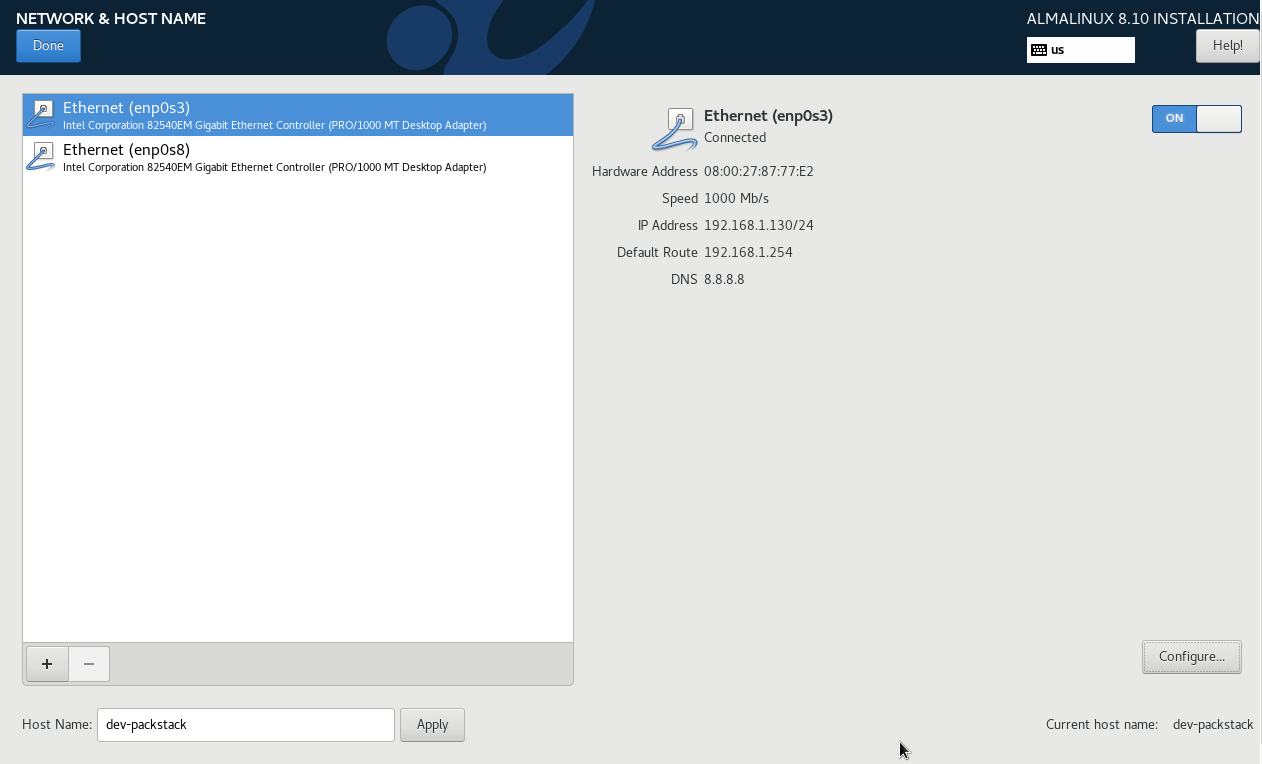
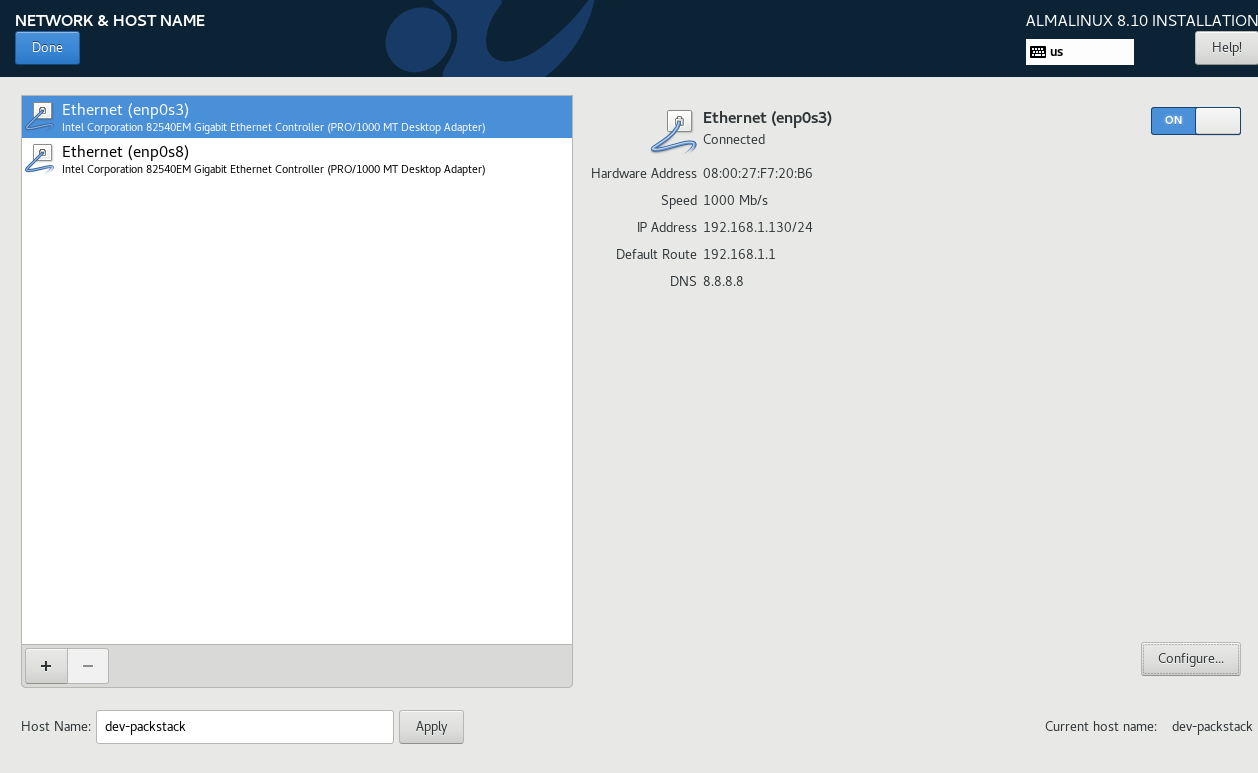
Migrate notes

diff --git a/docs/038-OpenStack/005-Installation/005-Setting-up-VirtualBox.md b/docs/038-OpenStack/005-Installation/005-Setting-up-VirtualBox.md
@@ -318,7 +318,7 @@ Start the machine and complete the installation using the GUI installer.
 
 7. Before proceeding to the next step, you need to get the IP of your host machine (not the VM).
 
-    Open command prompt and run the following:
+    Open command prompt and run:
 
     ```bash
     ipconfig 
@@ -327,13 +327,19 @@ Start the machine and complete the installation using the GUI installer.
     This returns you host network info. For example:
 
     ```bash
+    Ethernet adapter Ethernet:
+
+      Connection-specific DNS Suffix  . :
+      IPv4 Address. . . . . . . . . . . : 192.168.1.9
+      Subnet Mask . . . . . . . . . . . : 255.255.255.0
+      Default Gateway . . . . . . . . . : 192.168.1.1
+
     Wireless LAN adapter Wi-Fi:
 
       Connection-specific DNS Suffix  . :
-      Link-local IPv6 Address . . . . . : fe80::1995:67ee:8433:7919%13
-      IPv4 Address. . . . . . . . . . . : 192.168.1.24
+      IPv4 Address. . . . . . . . . . . : 192.168.1.8
       Subnet Mask . . . . . . . . . . . : 255.255.255.0
-      Default Gateway . . . . . . . . . : 192.168.1.254
+      Default Gateway . . . . . . . . . : 192.168.1.1
     ```
 
     Since we are using a host-only adapter mode, the VM will need to be assigned a static IP that is in the same range as your host machine.  
@@ -343,7 +349,7 @@ Start the machine and complete the installation using the GUI installer.
     ```bash
     IP Address: 192.168.1.130   (must be unused)
     Subnet:     255.255.255.0
-    Gateway:    192.168.1.254
+    Gateway:    192.168.1.1
     DNS:         8.8.8.8
     ```
 
@@ -385,7 +391,7 @@ Start the machine and complete the installation using the GUI installer.
     ```bash
     IP Address: 192.168.1.130   (must be unused)
     Subnet:     255.255.255.0
-    Gateway:    192.168.1.254
+    Gateway:    192.168.1.1
     DNS:         8.8.8.8
     ```
 
@@ -463,8 +469,6 @@ Check interface status using the interface name `enp0s3`.
 ip a show enp0s3
 ```
 
-Output:
-
 <div class='img-center'>
 
 ![](/img/docs/Screenshot-2026-02-08-202636.png)
@@ -475,14 +479,14 @@ Output:
 Test connectivity to the configured gateway: 
 
 ```bash
-ping -c 3 192.168.1.254
+ping -c 3 192.168.1.1
 ```
 
-Output:
+<div class='img-center'>
 
-```bash
-  
-```
+![](/img/docs/Screenshot-2026-02-09-002443.png)
+
+</div>
 
 
 Test DNS and internet access using `google.com`.
@@ -491,11 +495,12 @@ Test DNS and internet access using `google.com`.
 ping -c 3 google.com
 ```
 
-Output:
+<div class='img-center'>
 
-```bash
-  
-```
+![](/img/docs/Screenshot-2026-02-09-002536.png)
+
+</div>
+
 
 
 ## Troubleshooting
